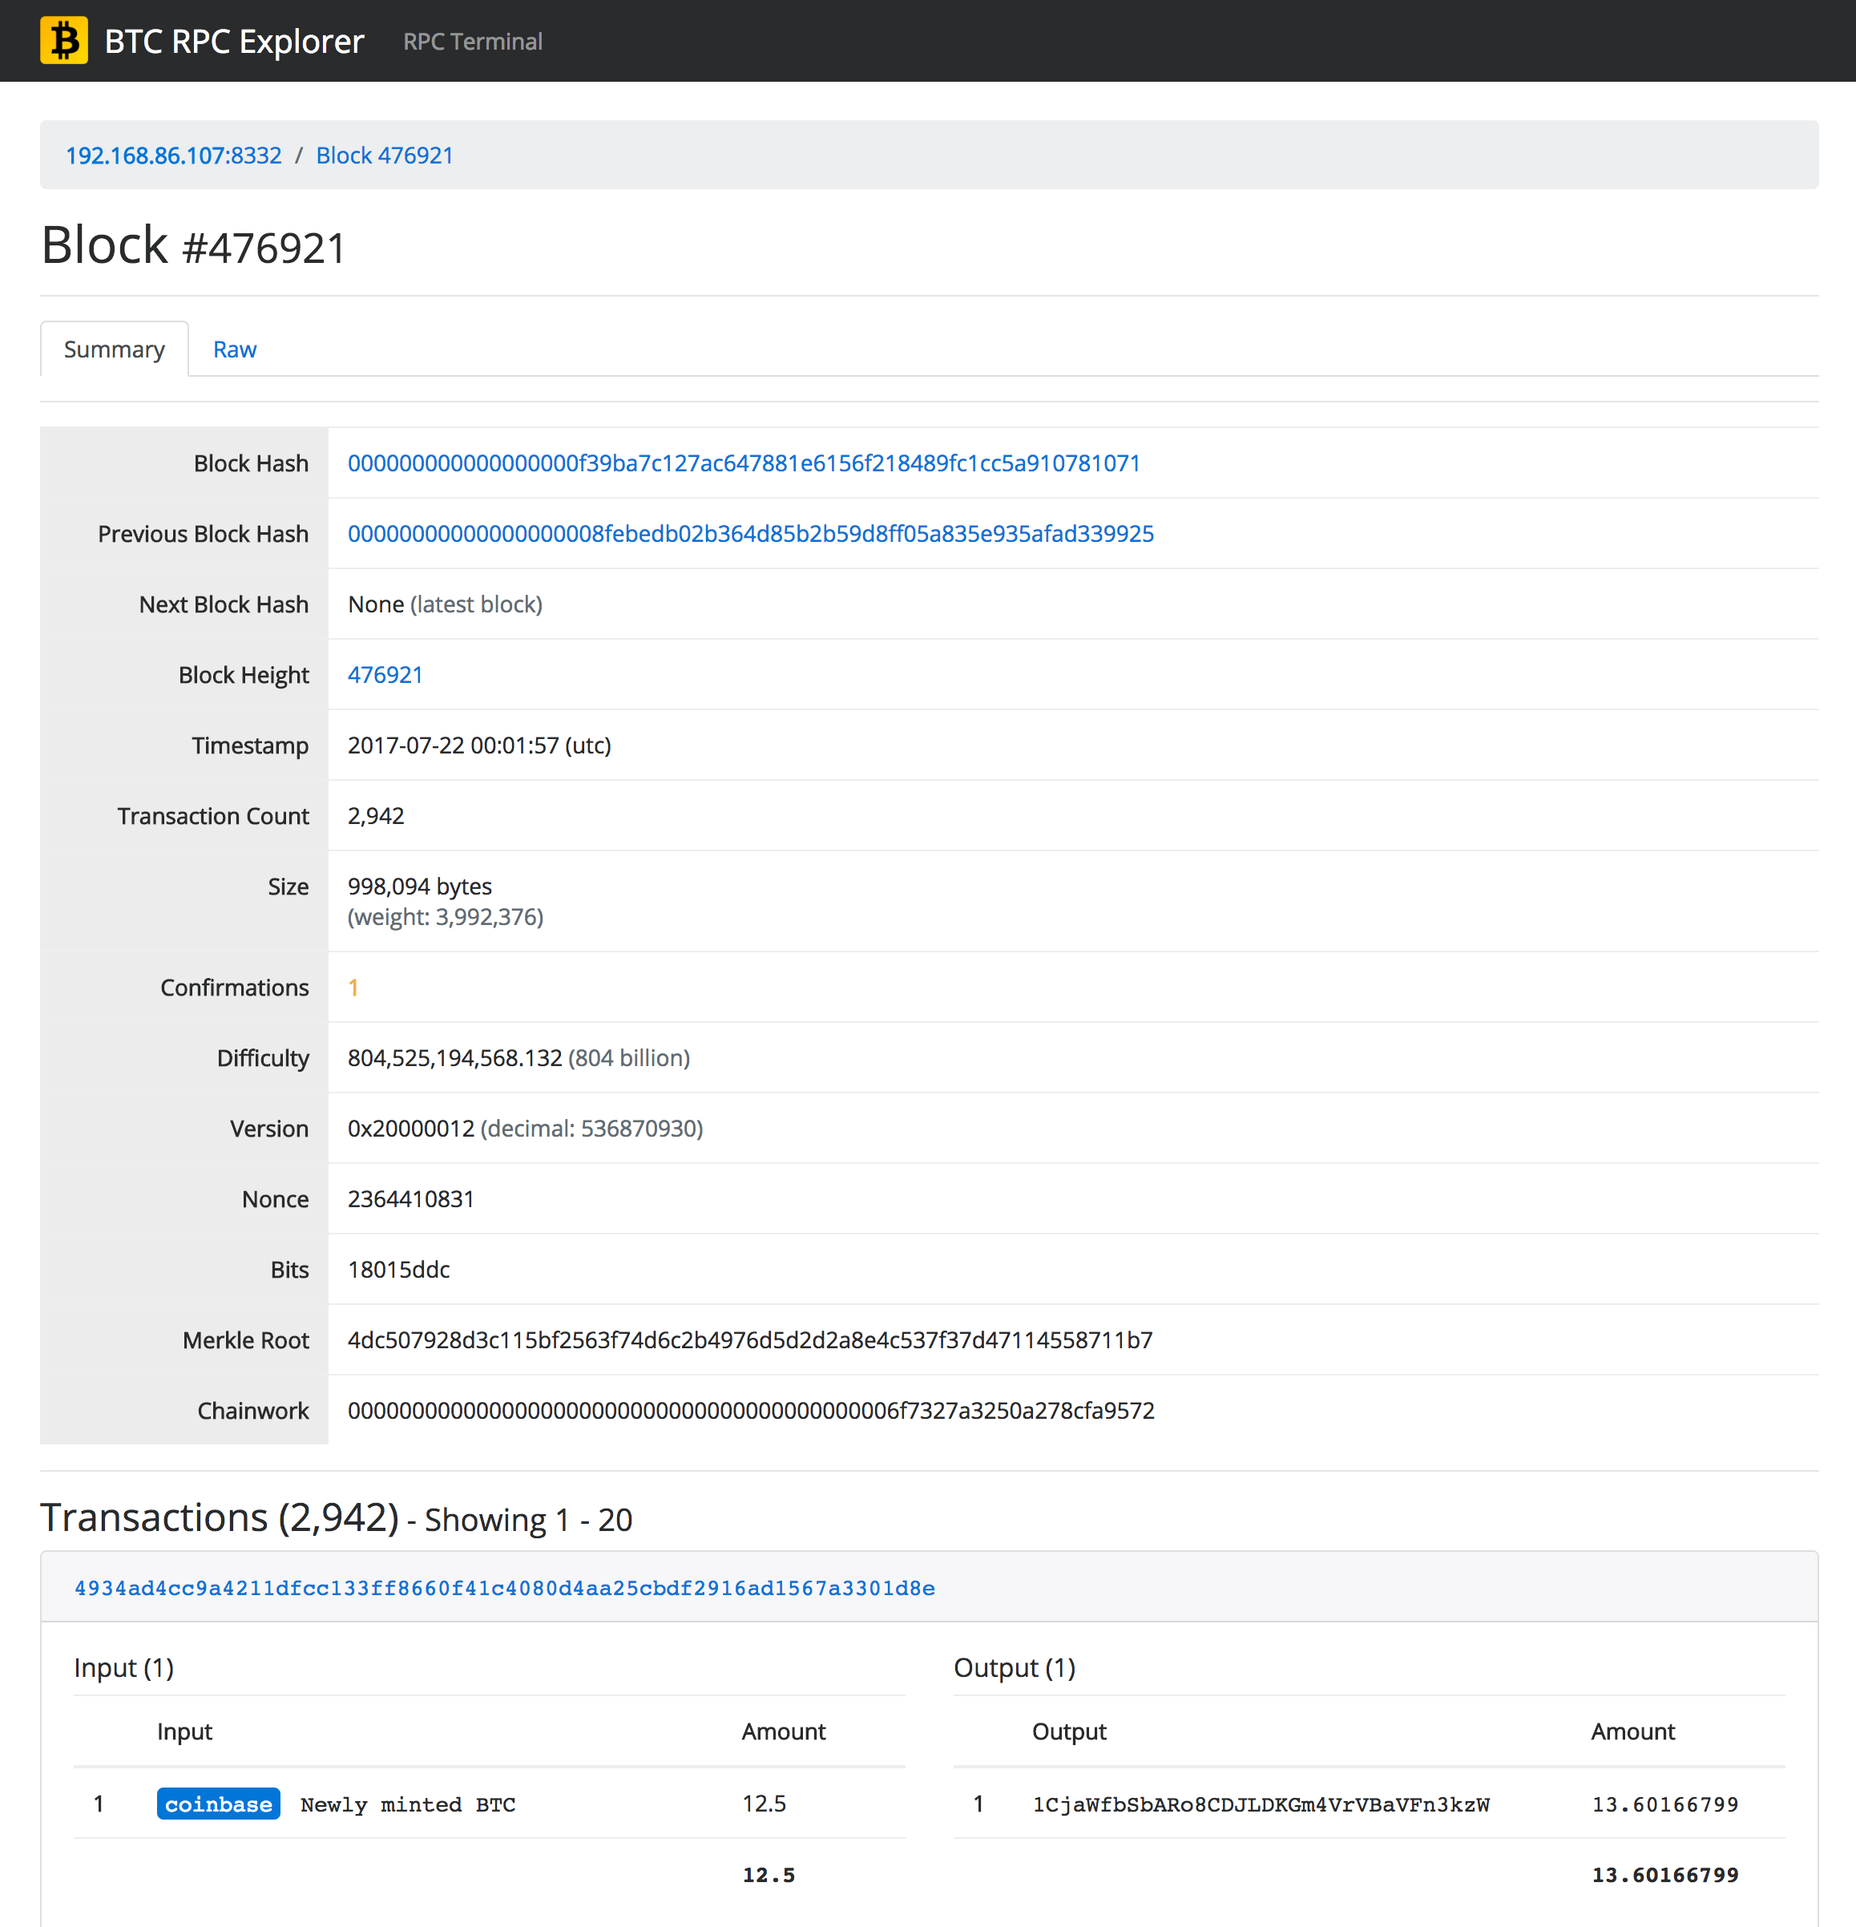
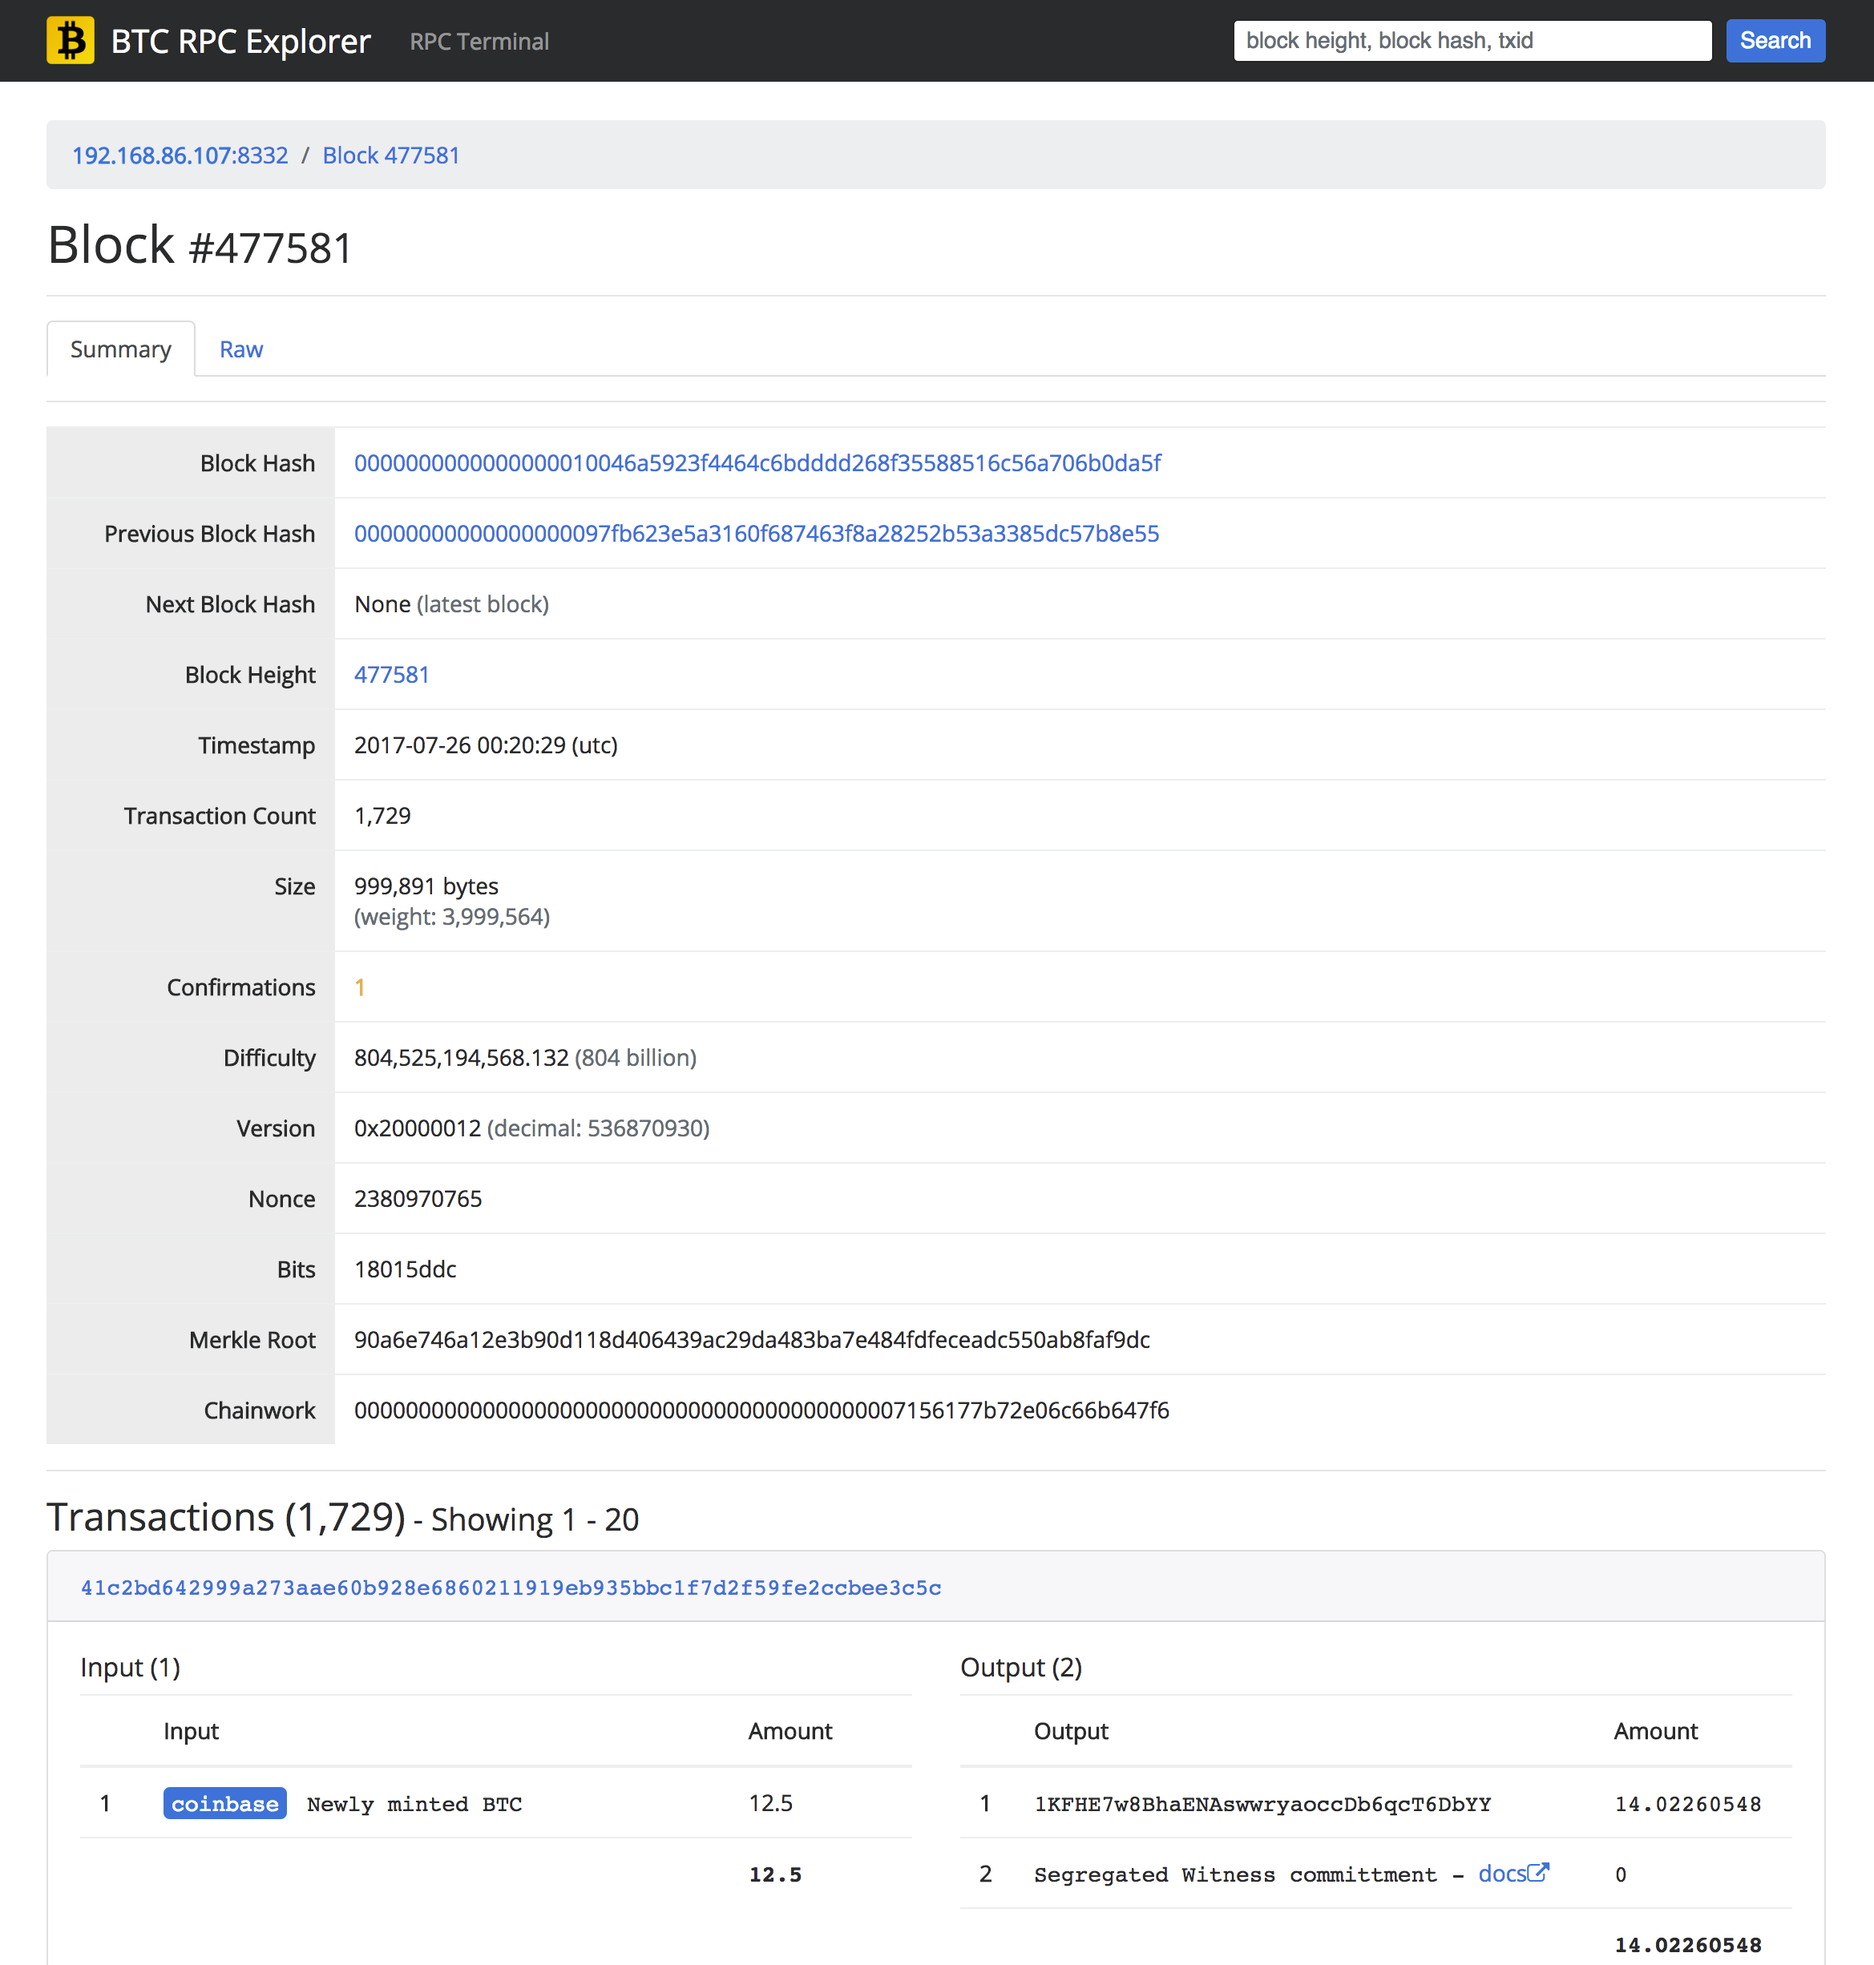
updated readme with new screenshots (showing the new search functionality)

diff --git a/README.md b/README.md
@@ -4,20 +4,23 @@
 
 Simple, stateless Bitcoin blockchain explorer, via RPC. Build with Node.js, express, bootstrap-v4.
 
+This tool is intended to be a simple, stateless, self-hosted explorer for the Bitcoin blockchain, driven by RPC calls to your own bitcoind node. Because it is stateless, it is easy to run but lacks some (many?) of the features of other explorers.
+
 # Getting started
 
 ## Prerequisites
 
-1. Install and run a `Full Node` - [instructions](https://bitcoin.org/en/full-node). Ensure that your node has full transaction indexing enabled (`txindex=1`) and the RPC server enabled (`server=1`).
+1. Install and run a full, archiving node - [instructions](https://bitcoin.org/en/full-node). Ensure that your node has full transaction indexing enabled (`txindex=1`) and the RPC server enabled (`server=1`).
 2. Synchronize your node with the Bitcoin network.
 
 ## Instructions
 
 1. Clone this repo
 2. `npm install` to install all required dependencies
-3. `npm start` to start the local server
-4. Navigate to http://127.0.0.1:3002/
-5. Connect using the RPC credentials for your target bitcoin node
+3. Optional: Uncomment the "bitcoind" section in [env.js](app/env.js) to automatically connect to the target node.
+4. `npm start` to start the local server
+5. Navigate to http://127.0.0.1:3002/
+6. Connect using the RPC credentials for your target bitcoin node (if you didn't edit [env.js](app/env.js) in Step 3)
 
 # Screenshots
 
@@ -33,3 +36,8 @@ Simple, stateless Bitcoin blockchain explorer, via RPC. Build with Node.js, expr
 ### Transaction Details
 # ![Connect](public/img/screenshots/transaction.png)
 
+### Transaction, Raw JSON
+# ![Connect](public/img/screenshots/transaction-raw.png)
+
+### List of all Blocks
+# ![Connect](public/img/screenshots/blocks.png)
